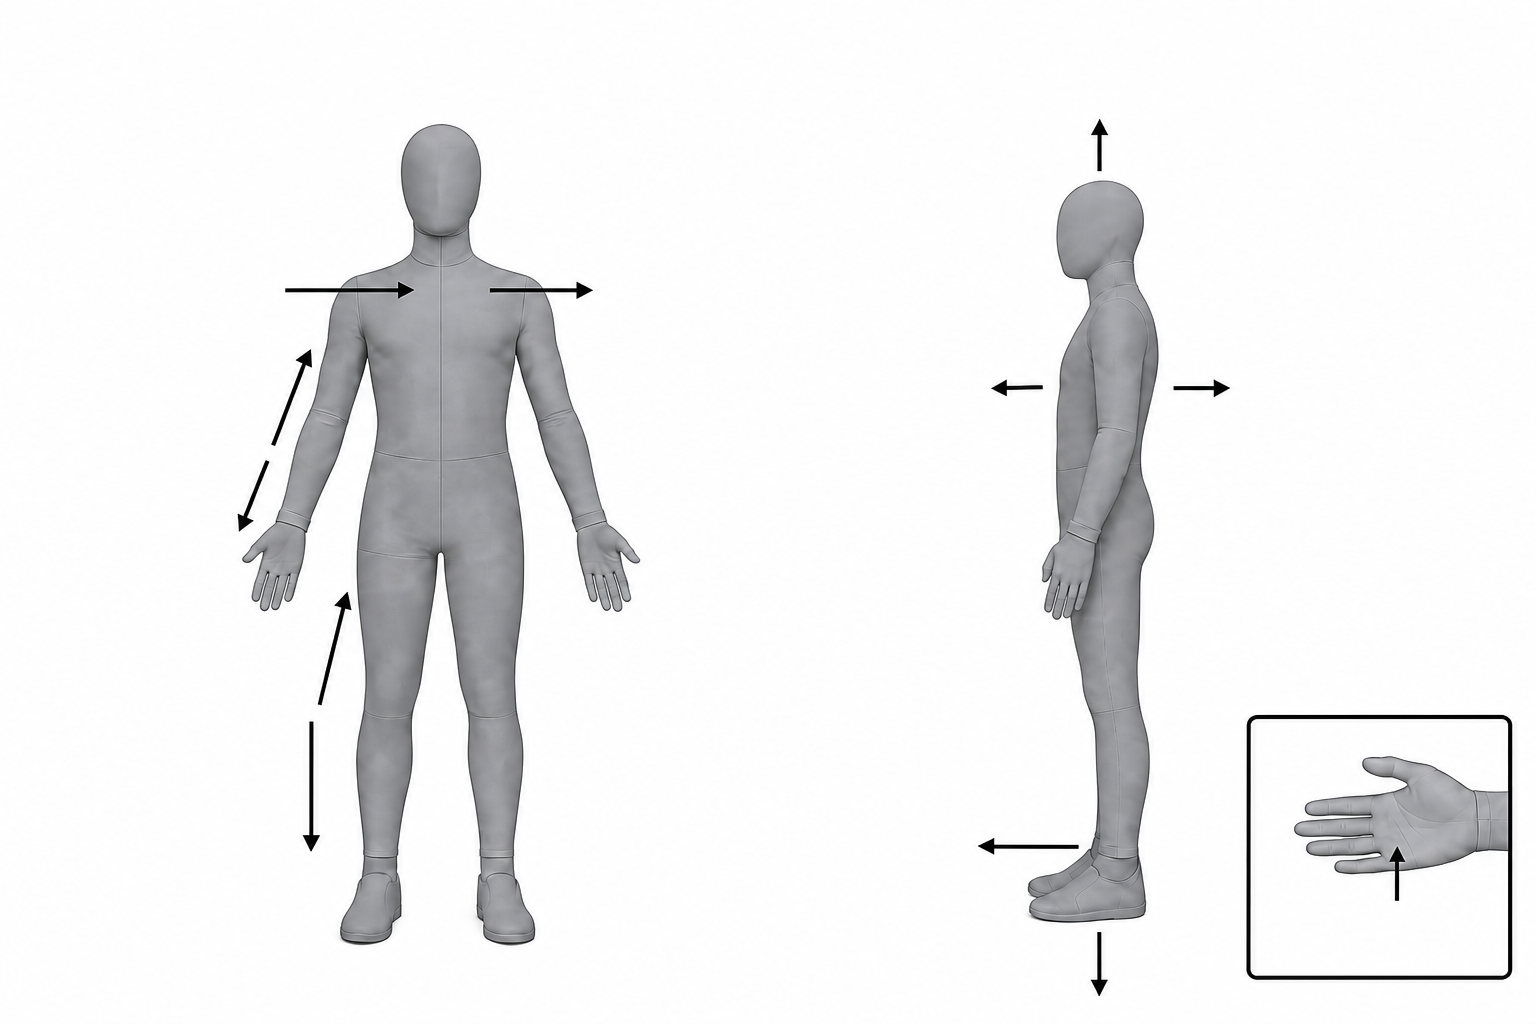
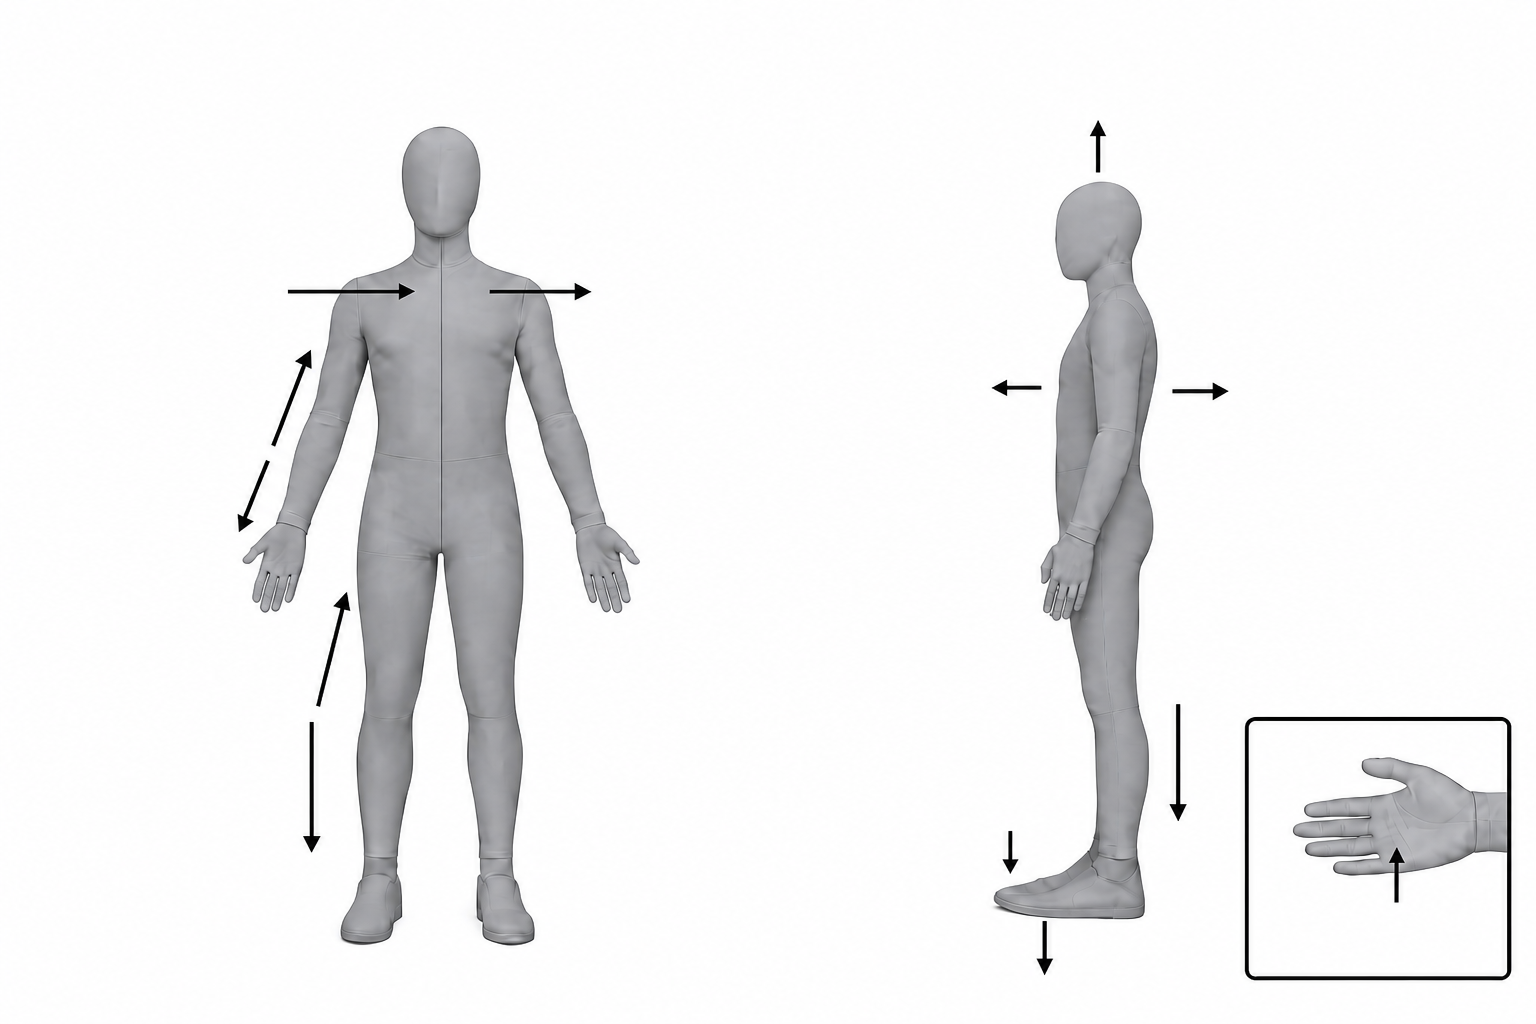
Adjust plantaire, caudal, dorsal arrows on ch01 terminologie.

diff --git a/data/flash/ch01.js b/data/flash/ch01.js
@@ -58,7 +58,7 @@
     { id: "FC-ANAT-01-049", chapter: "01", priority: "P3", kind: "text", front: "Terminologia anatomica : année ?", back: "1998 — langage anatomique international commun." },
     { id: "FC-ANAT-01-S01", chapter: "01", priority: "P1", kind: "schema", front: "Schéma — Position anatomique de référence", back: "Position anatomique de référence", frontImg: "matiere/anatomie/img/ch01/blank/01_position_anatomique.png", backImg: "matiere/anatomie/img/ch01/01_position_anatomique.png" },
     { id: "FC-ANAT-01-S02", chapter: "01", priority: "P1", kind: "schema", front: "Schéma — Axe médian", back: "Axe médian", frontImg: "matiere/anatomie/img/ch01/blank/02_axe_median.png", backImg: "matiere/anatomie/img/ch01/02_axe_median.png" },
-    { id: "FC-ANAT-01-S03", chapter: "01", priority: "P2", kind: "schema", front: "Schéma — Terminologie anatomique", back: "Terminologie anatomique", frontImg: "matiere/anatomie/img/ch01/blank/03_terminologie.png?v=rule3", backImg: "matiere/anatomie/img/ch01/03_terminologie.png?v=rule3" },
+    { id: "FC-ANAT-01-S03", chapter: "01", priority: "P2", kind: "schema", front: "Schéma — Terminologie anatomique", back: "Terminologie anatomique", frontImg: "matiere/anatomie/img/ch01/blank/03_terminologie.png?v=rule4", backImg: "matiere/anatomie/img/ch01/03_terminologie.png?v=rule4" },
     { id: "FC-ANAT-01-S04", chapter: "01", priority: "P2", kind: "schema", front: "Schéma — Morphologie externe", back: "Morphologie externe", frontImg: "matiere/anatomie/img/ch01/blank/04_morpho_externe_coeur.png", backImg: "matiere/anatomie/img/ch01/04_morpho_externe_coeur.png" },
     { id: "FC-ANAT-01-S05", chapter: "01", priority: "P2", kind: "schema", front: "Schéma — Morphologie interne", back: "Morphologie interne", frontImg: "matiere/anatomie/img/ch01/blank/05_morpho_interne_coeur.png", backImg: "matiere/anatomie/img/ch01/05_morpho_interne_coeur.png" },
     { id: "FC-ANAT-01-S06", chapter: "01", priority: "P2", kind: "schema", front: "Schéma — Régions du corps", back: "Régions du corps", frontImg: "matiere/anatomie/img/ch01/blank/06_regions_corps.png", backImg: "matiere/anatomie/img/ch01/06_regions_corps.png" },

diff --git a/matiere/anatomie/ch01.html b/matiere/anatomie/ch01.html
@@ -113,7 +113,7 @@
       <div class="callout trap"><strong>Attention / piège</strong> Proximal/distal = origine du membre · Médial/latéral = plan médian.</div>
 
       <figure class="schema">
-        <img src="./img/ch01/03_terminologie.png?v=rule3" alt="Terminologie anatomique" />
+        <img src="./img/ch01/03_terminologie.png?v=rule4" alt="Terminologie anatomique" />
       </figure>
 
       <div class="label-quiz" data-labels='[["cranial","superieur"],["caudal","inferieur"],["proximal"],["distal"],["homolateral","ipsilateral"],["contralateral","controlateral"],["medial","interne"],["lateral","externe"]]'>
